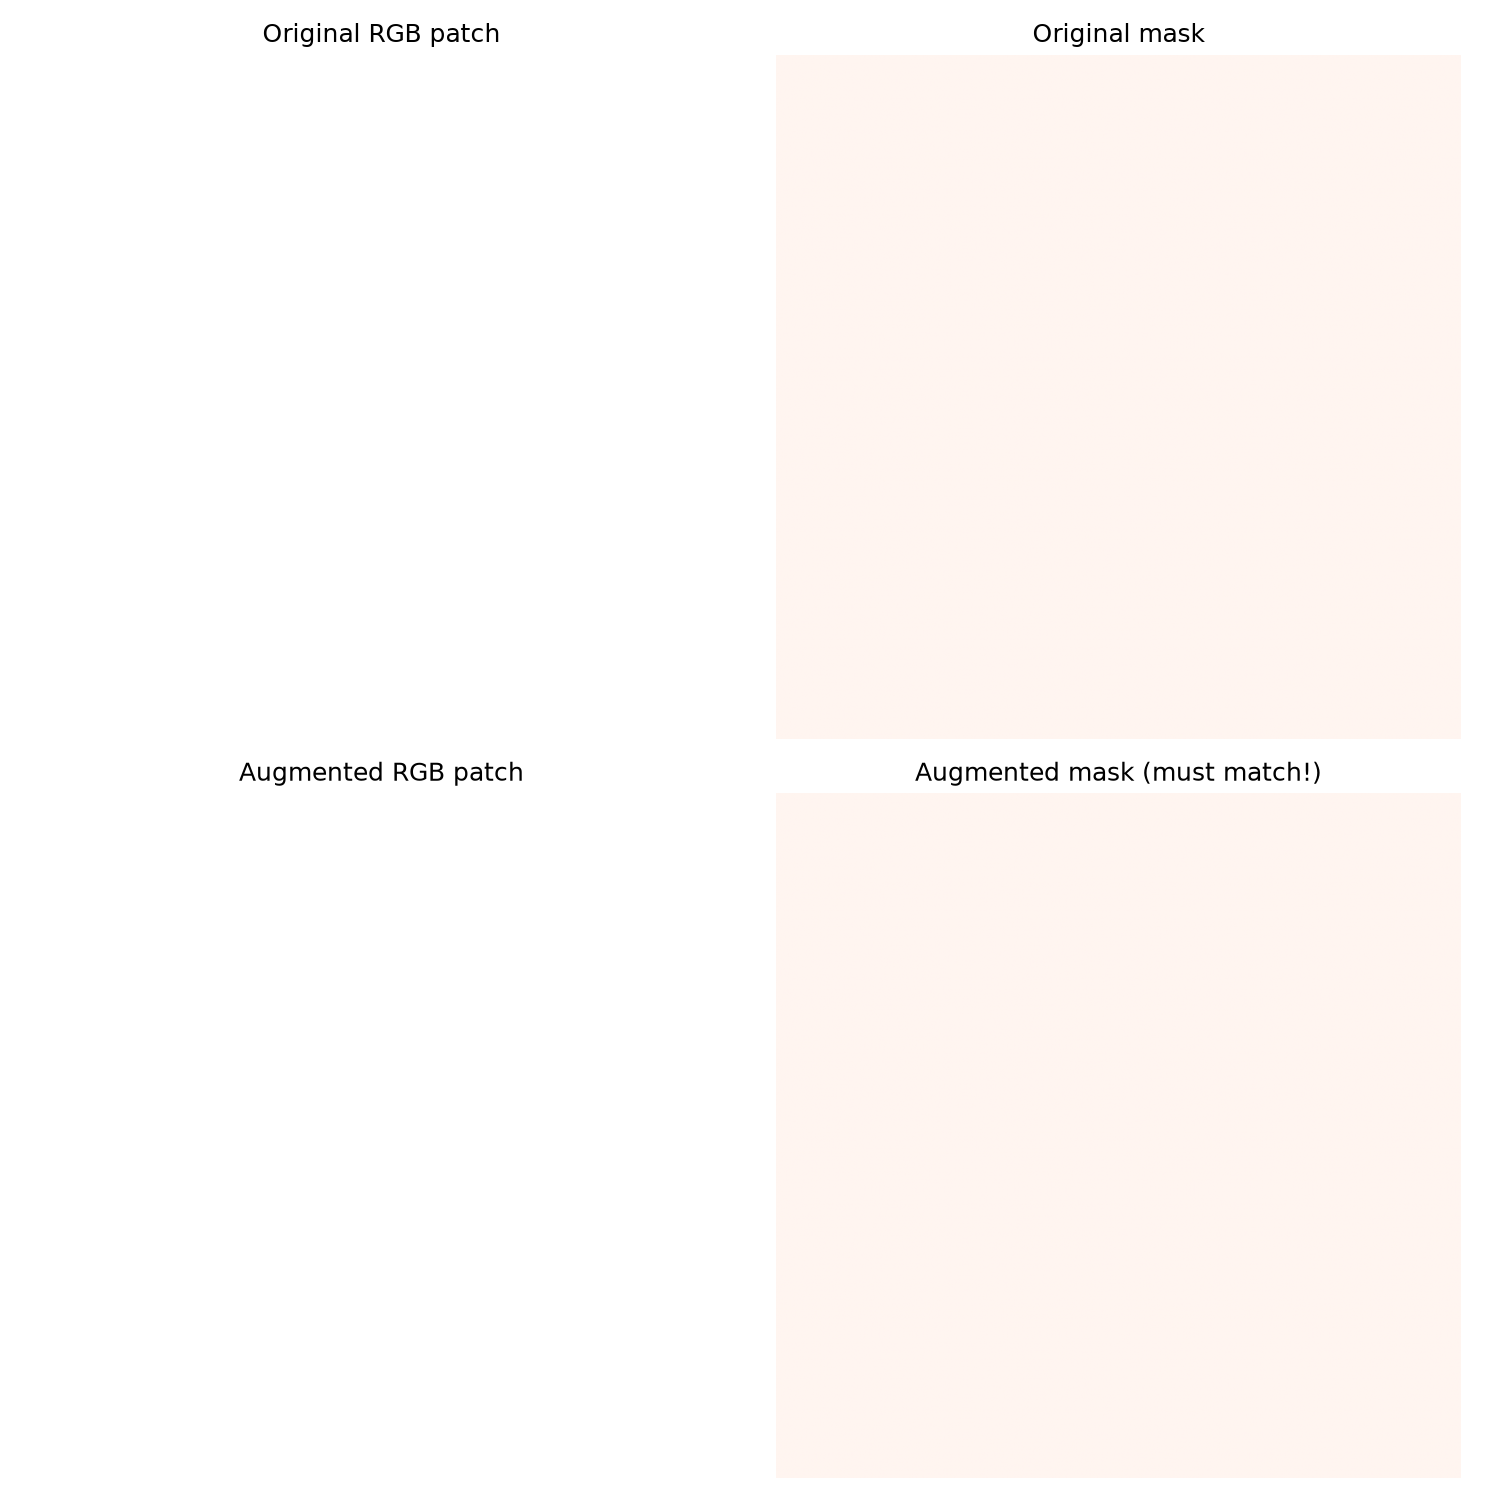
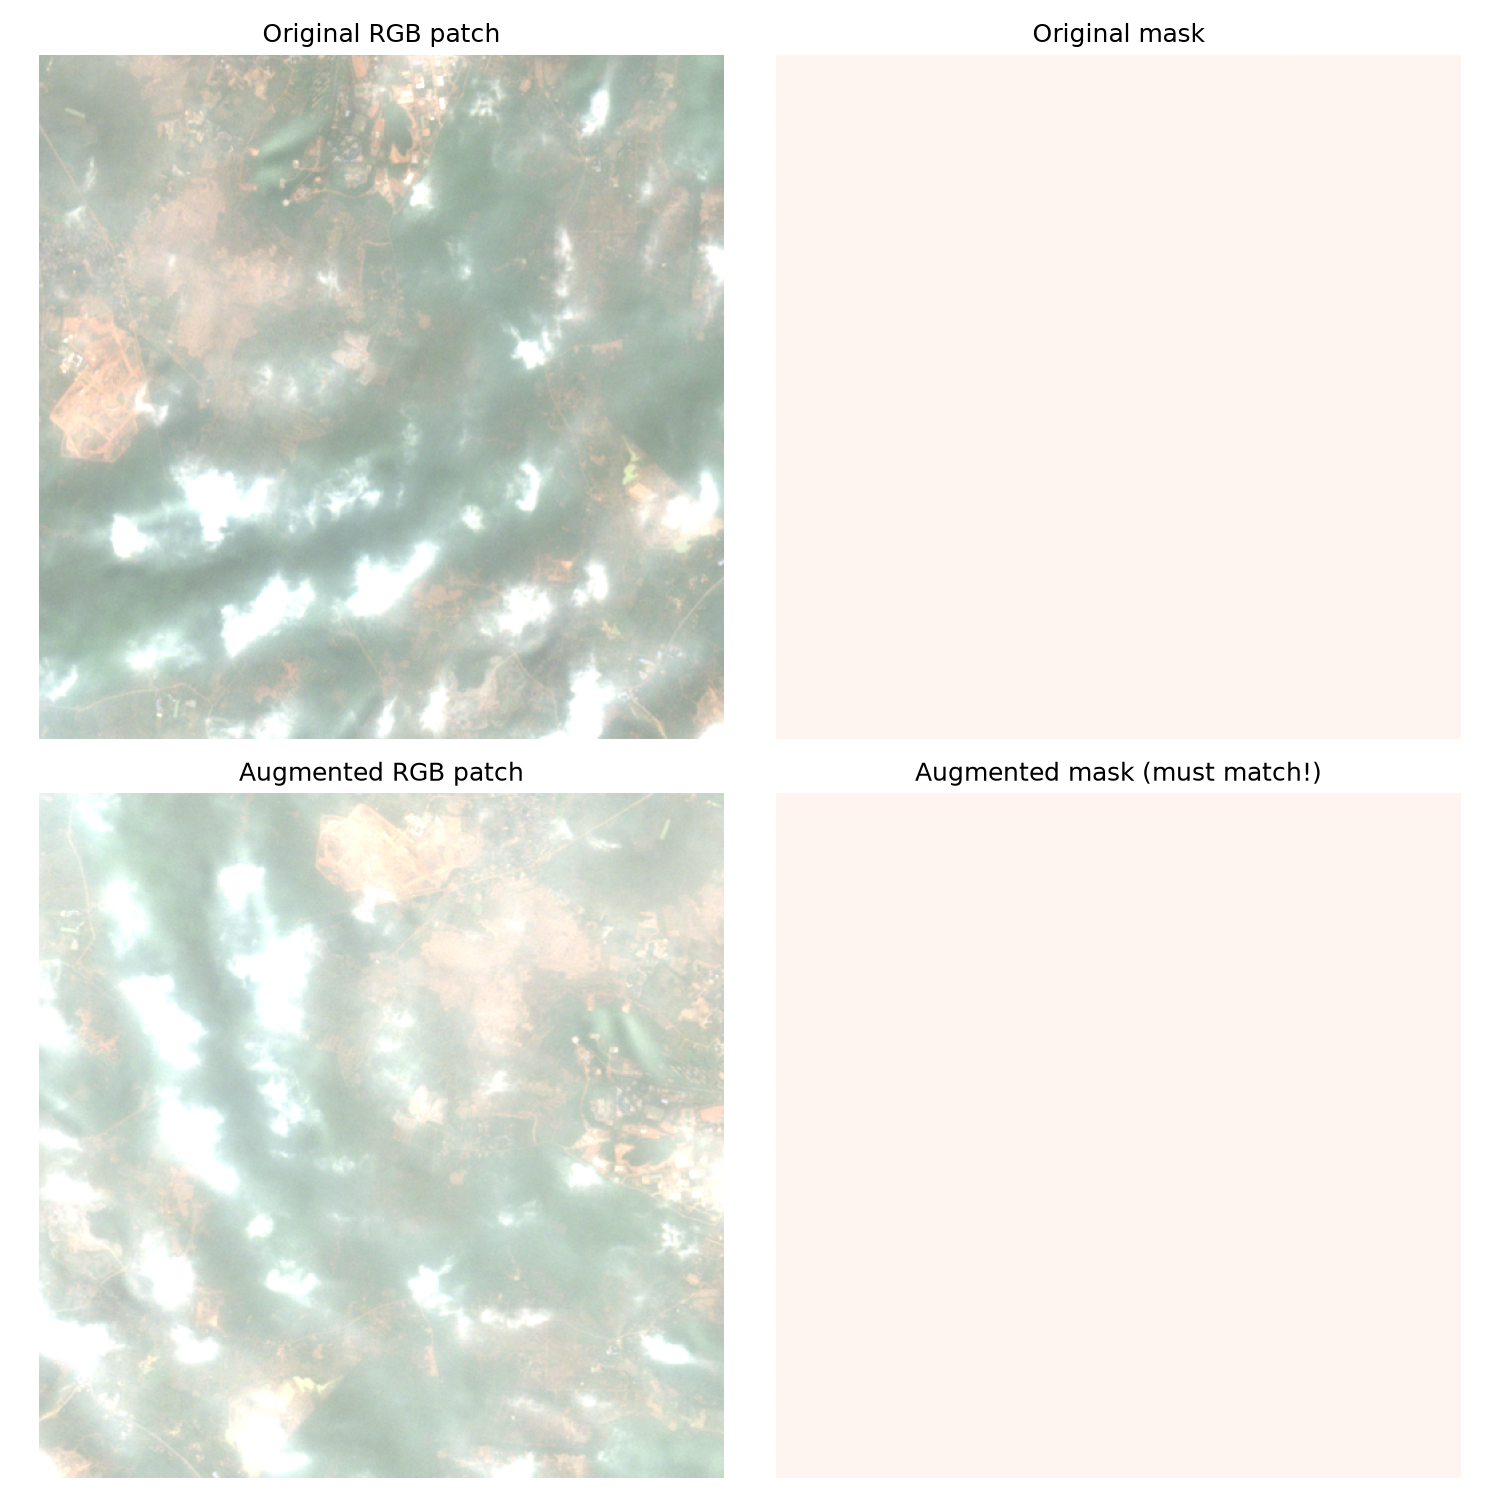
feat: implement satellite imagery augmentation pipeline for joint image and mask processing

diff --git a/terravis/apps/ml/augment_test.py b/terravis/apps/ml/augment_test.py
@@ -7,7 +7,7 @@ import matplotlib.pyplot as plt
 base = "extracted/S2A_MSIL2A_20241207T045201_N0511_R076_T45QUC_20241207T074151.SAFE/GRANULE/L2A_T45QUC_A049408_20241207T050111/IMG_DATA"
 
 # Load a small patch instead of the full 10980x10980 image — much faster to work with
-window = ((2000, 2512), (2000, 2512))  # a 512x512 pixel crop
+window = ((4000, 4512), (7000, 7512))
 
 with rasterio.open(f"{base}/R10m/T45QUC_20241207T045201_B04_10m.jp2") as src:
     red = src.read(1, window=window)